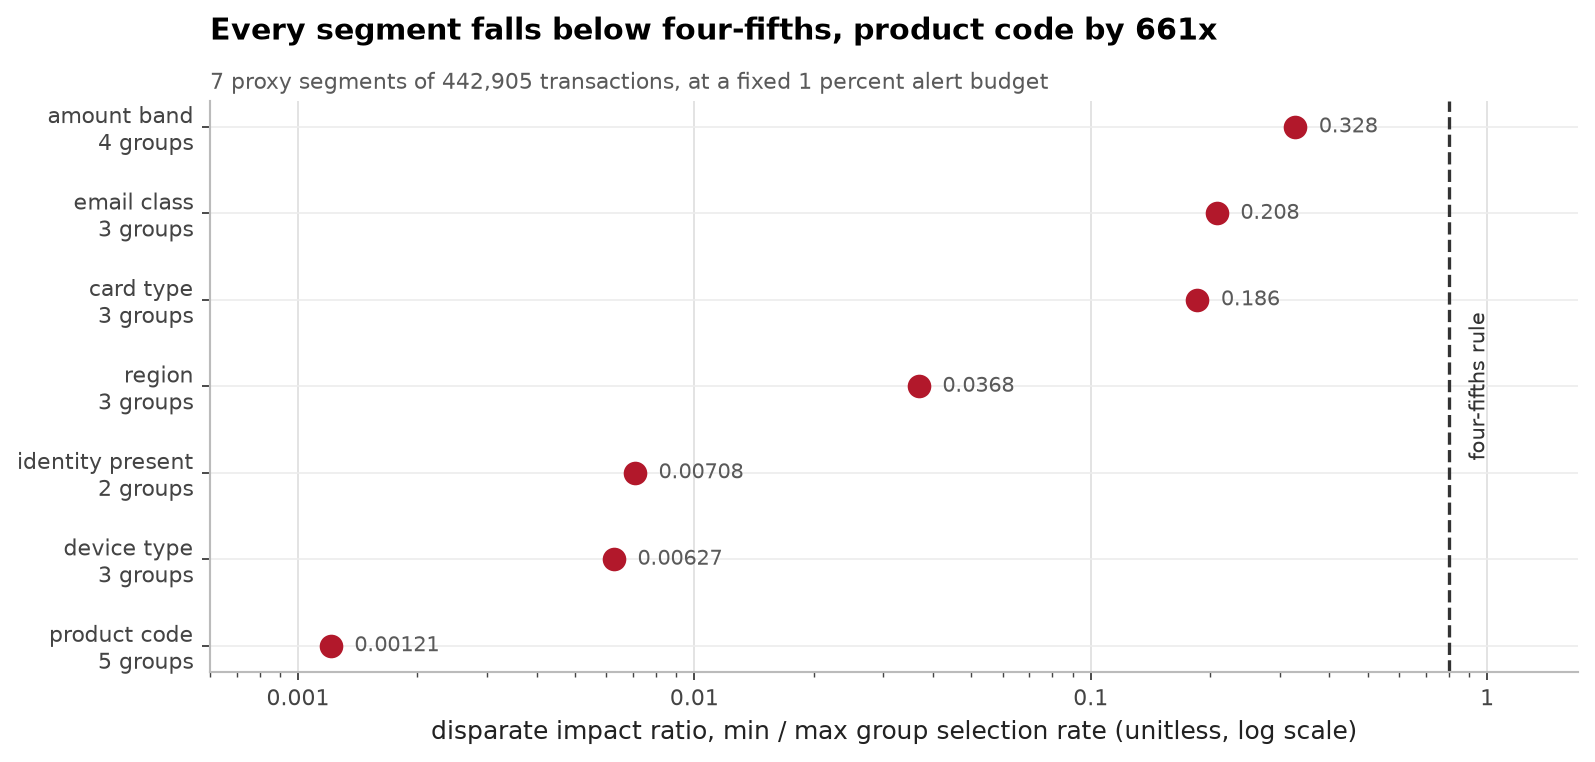
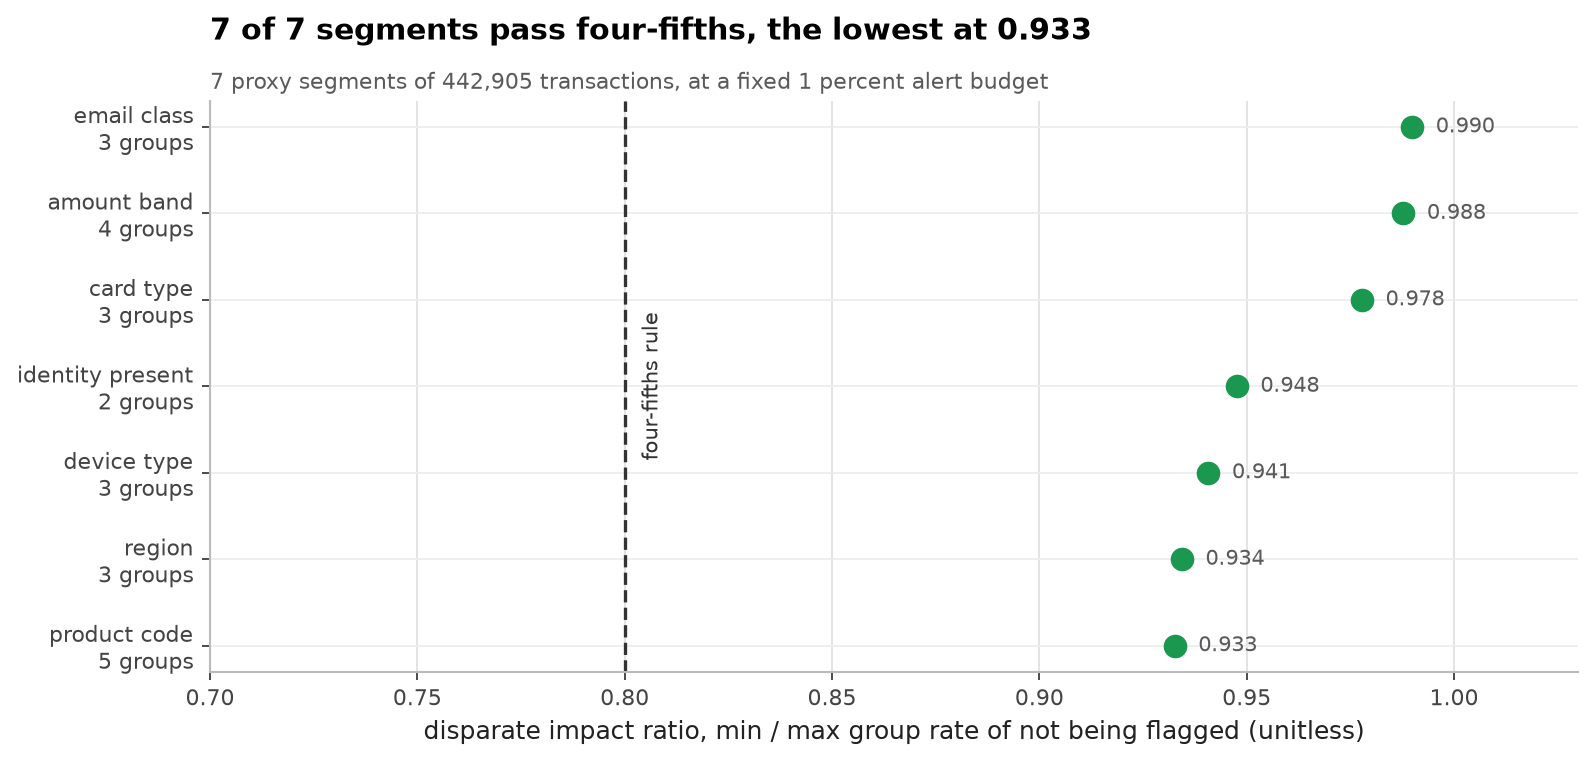
Apply the four-fifths rule to the favourable outcome, not the flag rate
disparity() divided the lowest group flag rate by the highest. Being flagged is the adverse outcome; the four-fifths rule compares rates of the favourable one, here not being flagged. The ratio is now min(1 - selection rate) / max(1 - selection rate).

Headline: product code disparate impact ratio 0.0012 -> 0.9326, and segments failing four-fifths 7 of 7 -> 0 of 7. Finding 1 in the README and the METHODS table are rewritten to say that: every segment passes, the pass is close to automatic at a 1% budget, and the 793x FPR ratio is what the rule cannot see.

audit.json's disparate_impact_ratio and passes_four_fifths fields are recomputed with disparity() from the committed segment tables (the row level predictions are not in the repo, but these two fields only need the per group selection rates). The SQL, R, Rust and JavaScript checks now rebuild the ratio on the favourable outcome, and the four-fifths figure is redrawn on a linear axis.

diff --git a/verify/readme.js b/verify/readme.js
@@ -75,10 +75,10 @@ const names = Object.keys(S);
 claim("row count", `on ${thousands(audit.n)} transactions`);
 claim("review budget", `under a fixed ${audit.budget * 100}% review budget`);
 
-const failing = names.filter((k) => !S[k].passes_four_fifths).length;
+const passing = names.filter((k) => S[k].passes_four_fifths).length;
 claim(
-  "how many segments fail four-fifths",
-  `${failing} of the ${names.length} available segments fall below the four-fifths`
+  "how many segments pass four-fifths",
+  `${passing} of the ${names.length} available segments pass the four-fifths`
 );
 
 const worstSeg = names.reduce((a, b) =>
@@ -86,9 +86,22 @@ const worstSeg = names.reduce((a, b) =>
 );
 const di = S[worstSeg].disparate_impact_ratio;
 claim(
-  "the worst disparate impact ratio and which segment holds it",
-  `The worst is ${worstSeg.replace("_", " ")} at ${di.toFixed(4)}, which is ` +
-    `${Math.round(0.8 / di)} times below the 0.8 line`
+  "the lowest disparate impact ratio and which segment holds it",
+  `The lowest is ${worstSeg.replace("_", " ")} at ${di.toFixed(4)}`
+);
+// The ratio is on the favourable outcome, not being flagged: rebuild it from
+// the selection rates rather than trusting the JSON field.
+const favC = 1 - by(pc, "C").selection_rate;
+const favW = 1 - by(pc, "W").selection_rate;
+assert(
+  "the product-code ratio is favourable rate over favourable rate",
+  Math.abs(favC / favW - S.product_code.disparate_impact_ratio) < 1e-12,
+  `${favC / favW} against ${S.product_code.disparate_impact_ratio}`
+);
+claim(
+  "the favourable rates behind it",
+  `${(favC * 100).toFixed(1)}% of product C transactions go through unflagged, ` +
+    `against ${(favW * 100).toFixed(2)}% for product W`
 );
 
 const nIdent = by(ident, "no");

diff --git a/scripts/make_figures.py b/scripts/make_figures.py
@@ -60,10 +60,10 @@ def _rows(ax, positions) -> None:
 def four_fifths(out: Path) -> Path:
     """Every segment against the four-fifths rule.
 
-    The disparate-impact ratio is the smallest group selection rate over the
-    largest. Below 0.8 is the conventional trigger for further scrutiny. The
-    ratios run over three decades, so they sit on a log axis as dots rather than
-    as bars whose length would be meaningless.
+    The disparate-impact ratio is the smallest group rate of the favourable
+    outcome, not being flagged, over the largest. Below 0.8 is the conventional
+    trigger for further scrutiny. At a 1% alert budget every group is let
+    through more than 90% of the time, so the ratios bunch just under 1.
     """
     segments = audit()["segments"]
     names = sorted(segments, key=lambda k: segments[k]["disparate_impact_ratio"])
@@ -71,28 +71,27 @@ def four_fifths(out: Path) -> Path:
     positions = np.arange(len(names))
 
     figure, ax = plt.subplots(figsize=(9.5, 4.6))
-    ax.set_xscale("log")
-    ax.set_xlim(6e-4, 1.7)
+    ax.set_xlim(0.7, 1.03)
     _rows(ax, positions)
 
     for index, ratio in enumerate(ratios):
         colour = PASSES if ratio >= FOUR_FIFTHS else FAIL
         ax.plot([ratio], [index], "o", markersize=9, color=colour, zorder=3)
-        ax.annotate(f"{ratio:.3g}", (ratio, index), xytext=(10, 0),
+        ax.annotate(f"{ratio:.3f}", (ratio, index), xytext=(10, 0),
                     textcoords="offset points", fontsize=9, color="#5a5a5a",
                     va="center")
 
     ax.axvline(FOUR_FIFTHS, color="#333333", linestyle="--", linewidth=1.4, zorder=2)
-    ax.text(FOUR_FIFTHS * 1.12, (len(names) - 1) / 2, "four-fifths rule", fontsize=9,
+    ax.text(FOUR_FIFTHS + 0.004, (len(names) - 1) / 2, "four-fifths rule", fontsize=9,
             color="#333333", va="center", rotation=90, ha="left")
 
     ax.set_yticklabels([f"{n.replace('_', ' ')}\n{segments[n]['n_groups']} groups"
                         for n in names])
-    _plain_log(ax.xaxis)
-    ax.set_xlabel("disparate impact ratio, min / max group selection rate "
-                  "(unitless, log scale)")
-    titled(ax, f"Every segment falls below four-fifths, "
-               f"{names[0].replace('_', ' ')} by {FOUR_FIFTHS / ratios[0]:.0f}x",
+    ax.set_xlabel("disparate impact ratio, min / max group rate of not being flagged "
+                  "(unitless)")
+    passing = sum(r >= FOUR_FIFTHS for r in ratios)
+    titled(ax, f"{passing} of {len(names)} segments pass four-fifths, the lowest at "
+               f"{ratios[0]:.3f}",
            f"{len(names)} proxy segments of {audit()['n']:,} transactions, {BUDGET}")
     figure.tight_layout()
     figure.savefig(out)

diff --git a/verify/resample/src/main.rs b/verify/resample/src/main.rs
@@ -1,8 +1,9 @@
 //! How much of the audit is sampling noise?
 //!
-//! The disparate impact ratio for product code is 0.0012, and the README calls
-//! that 661 times below the four-fifths line. It rests on 29 flagged rows out
-//! of 355,414 for product W. A point estimate built on 29 events can move a
+//! The disparate impact ratio for product code is 0.9326, on the favourable
+//! outcome (not being flagged), and the README says every segment passes the
+//! four-fifths line. The false-positive ratio behind it rests on 29 flagged rows
+//! out of 355,414 for product W. A point estimate built on 29 events can move a
 //! long way, and the Python never resampled anything: it reported the ratio it
 //! computed once and stopped.
 //!
@@ -13,7 +14,7 @@
 //! interval over replicates says how firm the published numbers are.
 //!
 //! Two things are then required to hold:
-//!   1. no replicate, in any segment, passes the four-fifths rule,
+//!   1. every replicate, in every segment, passes the four-fifths rule,
 //!   2. the ratio audit.json publishes falls inside the resampled interval,
 //!      which ties the JSON to the tables through the sampling distribution
 //!      rather than through a single division.
@@ -229,7 +230,8 @@ fn main() {
                 fpr_lo = fpr_lo.min(fp);
                 fpr_hi = fpr_hi.max(fp);
             }
-            let r = if sel_hi > 0.0 { sel_lo / sel_hi } else { 1.0 };
+            // Favourable outcome: the least let-through group over the most.
+            let r = (1.0 - sel_hi) / (1.0 - sel_lo);
             if r >= 0.8 {
                 passes += 1;
             }
@@ -249,8 +251,8 @@ fn main() {
         let (flo, fhi) = (percentile(&fpr_ratio, 0.025), percentile(&fpr_ratio, 0.975));
         let published_fpr = published_ratio(&doc, seg, "FPR_ratio");
 
-        if passes > 0 {
-            println!("  FAIL {seg}: {passes} of {REPLICATES} replicates pass four-fifths");
+        if passes < REPLICATES {
+            println!("  FAIL {seg}: only {passes} of {REPLICATES} replicates pass four-fifths");
             failures += 1;
         }
         if published < lo || published > hi {
@@ -289,7 +291,7 @@ fn main() {
     }
     println!(
         "Rust: {} binomial draws over {} replicates per segment, seed {:#x}; \
-         no replicate in any segment reaches four-fifths",
+         every replicate in every segment passes four-fifths",
         draws, REPLICATES, SEED
     );
 }

diff --git a/tests/test_metrics.py b/tests/test_metrics.py
@@ -52,21 +52,25 @@ def test_tiny_groups_are_dropped_not_reported():
     assert "tiny" not in set(g["group"])
 
 
-def test_disparate_impact_ratio_is_min_over_max():
+def test_disparate_impact_ratio_is_on_the_favourable_outcome():
+    """Being flagged is the adverse outcome. Four-fifths compares the rate of
+    the favourable one, not being flagged: 0.90 / 0.95, not 0.05 / 0.10."""
     g = pd.DataFrame({
         "group": ["A", "B"], "selection_rate": [0.10, 0.05],
         "FPR": [0.02, 0.01], "FNR": [0.5, 0.6], "AUC": [0.8, 0.7]})
     d = metrics.disparity(g)
-    assert d["disparate_impact_ratio"] == pytest.approx(0.5)
-    assert not d["passes_four_fifths"]
+    assert d["disparate_impact_ratio"] == pytest.approx(0.90 / 0.95)
+    assert d["passes_four_fifths"]
     assert d["FPR_ratio"] == pytest.approx(2.0)
 
 
-def test_four_fifths_passes_when_rates_are_close():
+def test_four_fifths_fails_when_one_group_is_mostly_flagged():
     g = pd.DataFrame({
-        "group": ["A", "B"], "selection_rate": [0.10, 0.09],
+        "group": ["A", "B"], "selection_rate": [0.30, 0.05],
         "FPR": [0.02, 0.02], "FNR": [0.5, 0.5], "AUC": [0.8, 0.8]})
-    assert metrics.disparity(g)["passes_four_fifths"]
+    d = metrics.disparity(g)
+    assert d["disparate_impact_ratio"] == pytest.approx(0.70 / 0.95)
+    assert not d["passes_four_fifths"]
 
 
 def test_equalising_selection_rate_actually_equalises_it():

diff --git a/src/auditor/metrics.py b/src/auditor/metrics.py
@@ -12,7 +12,8 @@ Which metric matters depends on who is harmed:
 - **False negative rate**, fraud gets through. The cost falls on the merchant
   or the bank, not the customer whose group it is.
 - **Selection rate**, the share of a group flagged at all, regardless of
-  correctness. This is what a disparate-impact claim is usually built on.
+  correctness. Being flagged is the adverse outcome, so the disparate-impact
+  ratio is built on its complement, the share of a group let through.
 - **Calibration**, whether a score of 0.3 means the same thing in every group.
 
 These cannot all be equalised at once when base rates differ. That is a theorem,
@@ -79,7 +80,10 @@ def disparity(g: pd.DataFrame) -> dict:
     out = {
         "n_groups": len(g),
         "selection_min": sel.min(), "selection_max": sel.max(),
-        "disparate_impact_ratio": sel.min() / sel.max() if sel.max() else np.nan,
+        # The four-fifths rule compares rates of the favourable outcome. Here
+        # that is not being flagged, so the ratio is on 1 - selection rate. On
+        # the flag rate itself it would measure the adverse outcome instead.
+        "disparate_impact_ratio": (1 - sel).min() / (1 - sel).max() if (1 - sel).max() else np.nan,
         "FPR_min": fpr.min(), "FPR_max": fpr.max(),
         "FPR_ratio": fpr.max() / fpr.min() if fpr.min() else np.inf,
         "FPR_gap_pp": (fpr.max() - fpr.min()) * 100,

diff --git a/README.md b/README.md
@@ -62,17 +62,26 @@ argument. Full mapping in **[docs/ai_act_mapping.md](docs/ai_act_mapping.md)**.
 
 ---
 
-## Finding 1: everything fails four-fifths, and it barely matters
+## Finding 1: everything passes four-fifths, and that says little
 
 The audit runs on 442,905 transactions under a fixed 1% review budget, which is
-the threshold the model actually operates at. At that budget, 7 of the 7 available segments fall below the
-four-fifths disparate-impact threshold. The worst is product code at 0.0012,
-which is 661 times below the 0.8 line: the false-positive rate runs 793 times
-higher for product C than for product W.
+the threshold the model actually operates at. The four-fifths rule compares
+rates of the favourable outcome, and here that is not being flagged. At that
+budget, 7 of the 7 available segments pass the four-fifths disparate-impact
+threshold. The lowest is product code at 0.9326: 93.3% of product C transactions
+go through unflagged, against 99.99% for product W.
 
-Most of that is arithmetic, not discrimination. One global threshold flags
-more of the groups that offend more, and base rates across product codes run from
-2.1% to 12.8%.
+That pass is close to automatic. With 1% of all traffic flagged, every group's
+favourable rate stays above 90%, so the ratio cannot fall far below 1 whatever
+the model does to a group. Meanwhile the false-positive rate runs 793 times
+higher for product C than for product W, and the rule cannot see it. My first
+version of this audit applied the rule to the flag rate itself, the adverse
+outcome, and reported a ratio of 0.0012 and seven failures. That was the rule
+pointed the wrong way round.
+
+Most of the FPR gap is arithmetic, not discrimination. One global threshold
+flags more of the groups that offend more, and base rates across product codes
+run from 2.1% to 12.8%.
 
 ## Finding 2: the gap worth reading is the one nobody reports
 

diff --git a/notes/METHODS.md b/notes/METHODS.md
@@ -25,17 +25,24 @@ model nobody uses that way.
 
 | segment | FPR ratio | worst | best | four-fifths |
 |---|---|---|---|---|
-| product code | **793×** | C | W | fails |
-| device type | 92× | mobile | unknown | fails |
-| identity present | 90× | yes | no | fails |
-| region | 52× | other | 87 | fails |
-| email class | 7.6× | free webmail | missing | fails |
-| card type | 5.0× | credit | debit | fails |
-| amount band | 4.4× | Q1 lowest | Q2 | fails |
+| product code | **793×** | C | W | passes |
+| device type | 92× | mobile | unknown | passes |
+| identity present | 90× | yes | no | passes |
+| region | 52× | other | 87 | passes |
+| email class | 7.6× | free webmail | missing | passes |
+| card type | 5.0× | credit | debit | passes |
+| amount band | 4.4× | Q1 lowest | Q2 | passes |
 
-Every segment fails the four-fifths rule. **I do not think that means what it
-looks like**, and saying so is the difference between an audit and an
-accusation: selection rates track base rates, which genuinely differ 5.7× across
+Every segment passes the four-fifths rule, applied as the rule intends to the
+favourable outcome, which here is not being flagged. The lowest ratio is product
+code at 0.9326. **I do not think that pass means much either**: at a 1% alert
+budget every group is let through more than 90% of the time, so the ratio is
+pinned near 1 whatever the model does, while the FPR ratio in the same table
+runs to 793×. My first version applied the rule to the flag rate, the adverse
+outcome, got 0.0012 and called every segment a failure. That was the rule turned
+upside down.
+
+The FPR gaps themselves track base rates, which genuinely differ 5.7× across
 these groups. A single-threshold ranker mechanically flags more of the groups
 that offend more. Most of this table is arithmetic, not discrimination.
 
